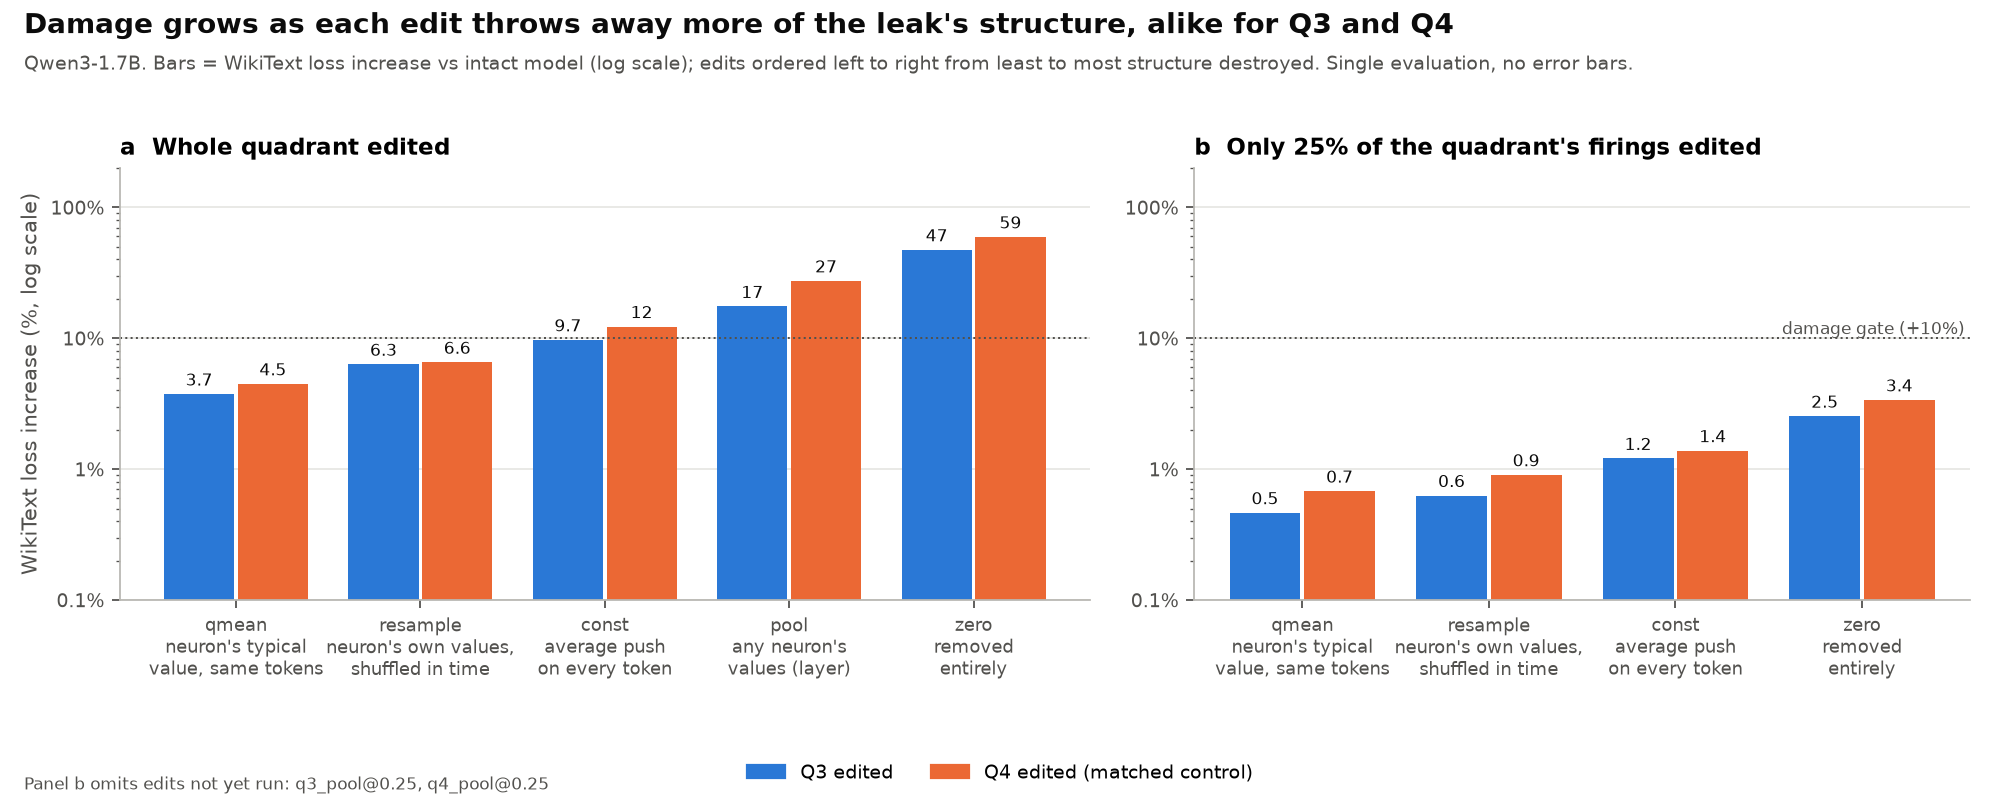
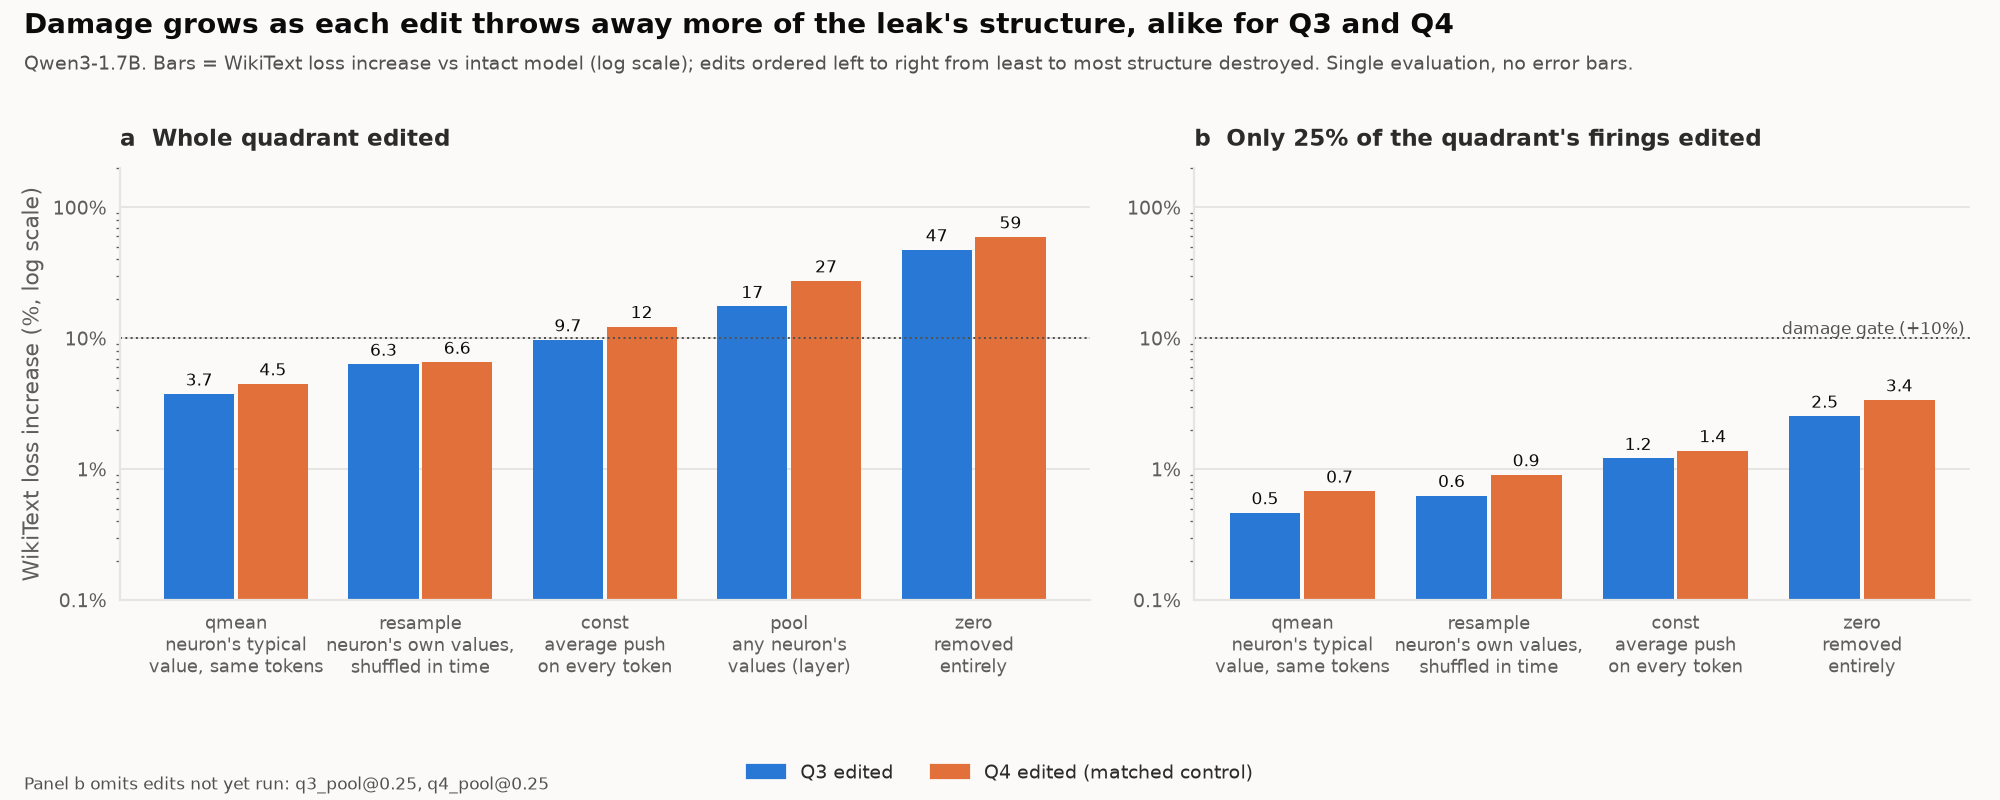
Restyle figures: shared style module, shaded bands, end-of-line labels; simplify survival panel

diff --git a/src/figures/make_figures.py b/src/figures/make_figures.py
@@ -42,12 +42,12 @@ DPI = 160
 
 # Palette (validated categorical slots 1, 2 and 7 of the dataviz reference palette).
 Q3_COL = "#2a78d6"
-Q4_COL = "#eb6834"
+Q4_COL = "#e2703a"
 OTHER_COL = "#6250d6"
 INTACT_COL = "#8a8985"
 INK = "#0b0b0b"
 INK2 = "#52514e"
-GRID = "#e4e3df"
+GRID = "#e6e5e1"
 
 FILL_ORDER = ["qmean", "resample", "const", "pool", "shrink", "grow", "zero", "mean"]
 FILL_DESC = {
@@ -58,31 +58,11 @@ FILL_DESC = {
     "zero": "zero\nremoved\nentirely",
 }
 
-plt.rcParams.update({
-    "font.size": 9.5,
-    "axes.titlesize": 10.5,
-    "axes.titleweight": "bold",
-    "axes.titlelocation": "left",
-    "axes.labelsize": 9.5,
-    "axes.labelcolor": INK2,
-    "axes.edgecolor": "#b9b8b3",
-    "axes.linewidth": 0.8,
-    "axes.spines.top": False,
-    "axes.spines.right": False,
-    "axes.grid": True,
-    "grid.color": GRID,
-    "grid.linewidth": 0.7,
-    "axes.axisbelow": True,
-    "xtick.color": INK2,
-    "ytick.color": INK2,
-    "xtick.labelsize": 8.5,
-    "ytick.labelsize": 8.5,
-    "legend.frameon": False,
-    "legend.fontsize": 8.5,
-    "figure.facecolor": "white",
-    "axes.facecolor": "white",
-    "savefig.facecolor": "white",
-})
+import style  # noqa: E402  (shared look: see style.py)
+
+style.apply()
+plt.rcParams.update({"font.size": 9.5, "axes.titlesize": 10.5, "xtick.labelsize": 8.5,
+                     "ytick.labelsize": 8.5, "legend.fontsize": 8.5, "lines.linewidth": 2.0})
 
 
 # ----------------------------------------------------------------------------- helpers
@@ -215,7 +195,7 @@ def fig1_damage_dose(folder: Path, out_dir: Path):
             if is_rate:
                 se = np.sqrt(ys * (1 - ys) / n)
                 ax.fill_between(xs, ys - se, ys + se, color=col, alpha=0.16, lw=0)
-            ax.plot(xs, ys, color=col, lw=2, marker="o", ms=5.5, mec="white", mew=1.2, label=lab, zorder=3)
+            ax.plot(xs, ys, color=col, lw=2, marker="o", ms=5.5, mec=style.SURFACE, mew=1.2, label=lab, zorder=3)
             ends.append((xs[-1], ys[-1], q.upper(), col))
         # Direct labels at line ends, nudged apart if they collide.
         lo, hi = ax.get_ylim()
@@ -285,7 +265,7 @@ def fig2_putback_ladder(folder: Path, out_dir: Path):
                     continue
                 v = r["loss_increase_pct"]
                 ax.bar(x[i] + off, v, bw, color=col, bottom=0.1 if False else None,
-                       label=None, edgecolor="white", linewidth=0)
+                       label=None, edgecolor=style.SURFACE, linewidth=0)
                 ax.text(x[i] + off, v * 1.08, f"{v:.1f}" if v < 10 else f"{v:.0f}", ha="center", va="bottom",
                         fontsize=7.8, color=INK)
         ax.set_yscale("log")
@@ -359,26 +339,25 @@ def fig3_generation(folder: Path, out_dir: Path):
 
     # (a) survival curves
     ax = fig.add_subplot(gs[0, :])
-    ax.set_title("a  Share of problems still thinking after t tokens")
-    linestyles = ["-", "--", "-.", ":"]
-    fam_count = {}
+    ax.set_title("a  Share of problems still thinking after t tokens (leaks halved, dashed, vs 50% larger, solid)")
+    # Only the clearest contrast is drawn here (leaks halved vs made 50% larger);
+    # panels b-d list every edit.
+    SHOWN = ["none", "q3_shrink@0.5", "q4_shrink@0.5", "q3_grow@0.5", "q4_grow@0.5"]
+    shown = [c for c in SHOWN if c in rows] or rows
 
-    def style(c):
+    def line_style(c):
         if c == "none":
             return dict(color=INTACT_COL, ls="-", lw=2.6)
-        col = quad_colour(c)
-        k = fam_count.setdefault(col, 0)
-        fam_count[col] = k + 1
-        return dict(color=col, ls=linestyles[k % len(linestyles)], lw=1.8)
+        return dict(color=quad_colour(c), ls="--" if "shrink" in c else "-", lw=2.2)
 
-    for c in rows:
+    for c in shown:
         keys = all_keys if c == "none" else paired[c]
         recs = base if c == "none" else variants[c]
         t = np.sort(np.array([max(recs[k]["thinking_tokens"], 1) for k in keys]))
         alive = 1.0 - np.arange(1, len(t) + 1) / len(t)
         xs = np.concatenate([[1], np.repeat(t, 2)])
         ys = np.concatenate([[1.0], np.column_stack([np.r_[1.0, alive[:-1]], alive]).ravel()])
-        ax.plot(xs, ys, label=f"{c} (n={len(keys)})", **style(c))
+        ax.plot(xs, ys, label=f"{c} (n={len(keys)})", **line_style(c))
     ax.set_xscale("log")
     ax.set_xlim(30, 6000)
     ax.set_ylim(-0.02, 1.02)
@@ -387,7 +366,7 @@ def fig3_generation(folder: Path, out_dir: Path):
     ax.set_xlabel("Thinking tokens so far (log scale)")
     ax.set_ylabel("Share still thinking")
     ax.yaxis.set_major_formatter(matplotlib.ticker.PercentFormatter(1.0, decimals=0))
-    ax.legend(loc="lower left", ncol=max(1, math.ceil(len(rows) / 4)), fontsize=8)
+    ax.legend(loc="lower left", ncol=1, fontsize=8.5)
 
     y = np.arange(len(rows))[::-1]
     axb, axc, axd = (fig.add_subplot(gs[1, i]) for i in range(3))
@@ -404,7 +383,7 @@ def fig3_generation(folder: Path, out_dir: Path):
         lo, hi = bootstrap(lambda ix: np.median(ratio[ix]), len(ratio))
         col = quad_colour(c)
         axb.plot([lo, hi], [yi, yi], color=col, lw=2, solid_capstyle="round")
-        axb.plot(med, yi, "o", color=col, ms=7, mec="white", mew=1.2)
+        axb.plot(med, yi, "o", color=col, ms=7, mec=style.SURFACE, mew=1.2)
         axb.annotate(f"{med:.2f}", (hi, yi), xytext=(4, 0), textcoords="offset points", va="center",
                      fontsize=7.5, color=INK2)
     axb.axvline(1, color=INTACT_COL, lw=1.1, ls="--")
@@ -433,7 +412,7 @@ def fig3_generation(folder: Path, out_dir: Path):
             p, lo, hi = wilson(k, len(keys))
             col = quad_colour(c)
             axx.plot([lo, hi], [yi, yi], color=col, lw=2, solid_capstyle="round")
-            axx.plot(p, yi, "o", color=col, ms=7, mec="white", mew=1.2)
+            axx.plot(p, yi, "o", color=col, ms=7, mec=style.SURFACE, mew=1.2)
             if c == "none":
                 axx.axvline(p, color=INTACT_COL, lw=1.1, ls="--")
         axx.set_xlabel(xlabel)
@@ -508,7 +487,7 @@ def fig4_probe(folder: Path, out_dir: Path):
             col = quad_colour(c)
             lo, hi = s[metric + "_ci"]
             ax.errorbar(s["kl"], s[metric], yerr=[[s[metric] - lo], [hi - s[metric]]], fmt="o", color=col,
-                        ms=7, mec="white", mew=1.2, elinewidth=1.6, capsize=0, zorder=3)
+                        ms=7, mec=style.SURFACE, mew=1.2, elinewidth=1.6, capsize=0, zorder=3)
             ax.annotate(c, (s["kl"], s[metric]), xytext=(5, 4), textcoords="offset points", fontsize=7.3,
                         color=INK2)
         ax.axhline(1, color=INTACT_COL, lw=1.1, ls="--")
@@ -537,7 +516,7 @@ def fig4_probe(folder: Path, out_dir: Path):
         s = stats[c]
         lo, hi = s["dlogp_ci"]
         col = quad_colour(c)
-        ax.barh(yi, s["dlogp"], 0.62, color=col, edgecolor="white", linewidth=0)
+        ax.barh(yi, s["dlogp"], 0.62, color=col, edgecolor=style.SURFACE, linewidth=0)
         ax.plot([lo, hi], [yi, yi], color=INK, lw=1.2)
     ax.axvline(0, color=INTACT_COL, lw=1.1)
     ax.set_yticks(y)
@@ -608,7 +587,7 @@ def fig5_probe_conclude(folder: Path, out_dir: Path):
             o = np.argsort(xs)
             xs, ys, los, his = (np.array(v)[o] for v in (xs, ys, los, his))
             ax.plot(xs + off[q], ys, color=col, lw=2, zorder=3)
-            ax.errorbar(xs + off[q], ys, yerr=[ys - los, his - ys], fmt="o", color=col, ms=7, mec="white", mew=1.2,
+            ax.errorbar(xs + off[q], ys, yerr=[ys - los, his - ys], fmt="o", color=col, ms=7, mec=style.SURFACE, mew=1.2,
                         elinewidth=1.6, capsize=0, zorder=4)
             ends.append((xs[-1] + off[q], ys[-1], q.upper(), col))
             for s, x in GAIN_STEPS:
@@ -618,7 +597,7 @@ def fig5_probe_conclude(folder: Path, out_dir: Path):
                 m, (lo, hi) = r[metric]["mean"], r[metric]["ci"]
                 xx = x + 3 * off[q]
                 ax.plot([xx, xx], [lo, hi], color=col, lw=1.0, alpha=0.6, zorder=2)
-                ax.plot(xx, m, "o", mfc="white", mec=col, mew=1.6, ms=6.5, zorder=5)
+                ax.plot(xx, m, "o", mfc=style.SURFACE, mec=col, mew=1.6, ms=6.5, zorder=5)
         lo, hi = ax.get_ylim()
         gap = 0.07 * (hi - lo)
         ends.sort(key=lambda e: e[1])
@@ -636,9 +615,9 @@ def fig5_probe_conclude(folder: Path, out_dir: Path):
         _ratio_axis(ax)
         ax.text(0.41, 0, "intact", fontsize=7.8, color=INTACT_COL, va="bottom")
     from matplotlib.lines import Line2D
-    handles = [Line2D([], [], color=Q3_COL, lw=2, marker="o", ms=7, mec="white", label="Q3 leaks scaled"),
-               Line2D([], [], color=Q4_COL, lw=2, marker="o", ms=7, mec="white", label="Q4 leaks scaled (matched control)"),
-               Line2D([], [], ls="", marker="o", ms=6.5, mfc="white", mec=INK2, mew=1.6,
+    handles = [Line2D([], [], color=Q3_COL, lw=2, marker="o", ms=7, mec=style.SURFACE, label="Q3 leaks scaled"),
+               Line2D([], [], color=Q4_COL, lw=2, marker="o", ms=7, mec=style.SURFACE, label="Q4 leaks scaled (matched control)"),
+               Line2D([], [], ls="", marker="o", ms=6.5, mfc=style.SURFACE, mec=INK2, mew=1.6,
                       label="independent traces (seed 1)"),
                Line2D([], [], color=INTACT_COL, ls="--", lw=1.1, label="intact model")]
     fig.legend(handles=handles, loc="lower center", ncol=4, bbox_to_anchor=(0.5, 0.0))
@@ -709,7 +688,7 @@ def fig6_full_ablation(folder: Path, out_dir: Path):
         for i in np.flatnonzero(mid):
             pts.append((t[i], yi + rng.uniform(-0.3, 0.3), ok[i]))
         for x, yy, c in pts:
-            ax.plot(x, yy, "o", ms=5.2, mec=col, mew=1.1, mfc=col if c else "white", zorder=3)
+            ax.plot(x, yy, "o", ms=5.2, mec=col, mew=1.1, mfc=col if c else style.SURFACE, zorder=3)
         for mask, x, ha in ((zero, -30 - dx * math.ceil(zero.sum() / per_col) + dx / 2 - 20, "right"),
                             (cap, CAP + 30 + dx * math.ceil(cap.sum() / per_col) - dx / 2 + 20, "left")):
             if mask.sum():

diff --git a/src/figures/fig_gain_dose.py b/src/figures/fig_gain_dose.py
@@ -2,7 +2,7 @@
 
 Every Q3 (or Q4) firing is multiplied by a gain: shrink@0.5 = x0.5, none = x1,
 grow@0.25 = x1.25, and so on. Left: median per-problem thinking length relative
-to the intact model (bootstrap 95% CI). Right: GSM8K accuracy (Wilson 95% CI).
+to the intact model (bootstrap 95% band). Right: GSM8K accuracy (Wilson 95% band).
 
 Usage: python src/figures/fig_gain_dose.py [results/q3__Qwen__Qwen3-1.7B] [seed]
 Writes figures/fig7_gain_dose_response.png and gain_dose_summary__seed<k>.json.
@@ -14,25 +14,32 @@ import matplotlib
 matplotlib.use("Agg")
 import matplotlib.pyplot as plt
 
+sys.path.insert(0, str(Path(__file__).resolve().parent))
+import style  # noqa: E402
+
+style.apply()
 folder = Path(sys.argv[1] if len(sys.argv) > 1 else "results/q3__Qwen__Qwen3-1.7B")
 seed = int(sys.argv[2]) if len(sys.argv) > 2 else 1
 GAINS = {0.5: "shrink@0.5", 1.25: "grow@0.25", 1.5: "grow@0.5", 1.75: "grow@0.75"}
 rng = np.random.default_rng(0)
 
+
 def load(name):
     p = folder / f"{name}__seed{seed}.jsonl"
     return {r["idx"]: r for r in map(json.loads, p.open())} if p.exists() else None
+
 
 def wilson(k, n, z=1.96):
     p = k / n; d = 1 + z * z / n; c = (p + z * z / (2 * n)) / d
     h = z * np.sqrt(p * (1 - p) / n + z * z / (4 * n * n)) / d
     return c - h, c + h
 
+
 base = load("none")
 ids = sorted(base)
 summary = {}
-fig, (a1, a2) = plt.subplots(1, 2, figsize=(11, 4.2))
-for quad, colour in (("q3", "#c0392b"), ("q4", "#2c6fbb")):
+fig, (a1, a2) = plt.subplots(1, 2, figsize=(12.5, 4.9))
+for quad, colour, dy in (("q3", style.Q3_COL, 0), ("q4", style.Q4_COL, 0)):
     xs, ratio, rlo, rhi, acc, alo, ahi = [1.0], [1.0], [1.0], [1.0], [], [], []
     k = sum(base[i]["correct"] for i in ids); lo, hi = wilson(k, len(ids))
     acc.append(k / len(ids)); alo.append(lo); ahi.append(hi)
@@ -48,17 +55,24 @@ for quad, colour in (("q3", "#c0392b"), ("q4", "#2c6fbb")):
         summary[f"{quad}_{fill}"] = {"gain": g, "length_ratio": ratio[-1], "ci": [rlo[-1], rhi[-1]],
                                      "accuracy": acc[-1], "cap_hits": float(np.mean([run[i]["total_tokens"] >= 4096 for i in ids]))}
     o = np.argsort(xs); xs, ratio, rlo, rhi, acc, alo, ahi = (np.array(v)[o] for v in (xs, ratio, rlo, rhi, acc, alo, ahi))
-    a1.errorbar(xs, ratio, [ratio - rlo, rhi - ratio], marker="o", color=colour, capsize=3, label=f"{quad.upper()} leaks")
-    a2.errorbar(xs, acc, [acc - alo, ahi - acc], marker="o", color=colour, capsize=3, label=f"{quad.upper()} leaks")
-a1.axhline(1, color="grey", lw=0.8, ls="--"); a1.set_yscale("log"); a1.set_yticks([0.4, 0.5, 0.7, 1, 1.5, 2])
+    name = f"{quad.upper()} leaks"
+    style.line_with_band(a1, xs, ratio, rlo, rhi, colour, name)
+    style.line_with_band(a2, xs, acc, alo, ahi, colour, name, dy=-9 if quad == "q3" else 9)
+
+a1.set_yscale("log"); a1.set_yticks([0.4, 0.5, 0.7, 1, 1.5, 2])
 a1.set_yticklabels(["0.4", "0.5", "0.7", "1", "1.5", "2"]); a1.minorticks_off()
-a1.set_xlabel("leak size multiplier (1 = intact)"); a1.set_ylabel("thinking length vs intact (median ratio)")
-a1.set_title("Bigger Q3 leaks -> shorter reasoning"); a1.legend()
-a2.set_xlabel("leak size multiplier (1 = intact)"); a2.set_ylabel("GSM8K accuracy"); a2.set_ylim(0.4, 1)
-a2.set_title("Accuracy holds only near the intact size"); a2.legend()
-fig.suptitle(f"Qwen3-1.7B, 200 GSM8K problems, seed {seed}. x1.25 and x1.5 leave accuracy intact.", fontsize=10)
-fig.tight_layout()
+style.reference_line(a1, 1, "intact", 1.83)
+a1.set_ylabel("thinking length vs intact (median ratio)")
+a1.set_title("Bigger Q3 leaks, shorter reasoning")
+a2.set_ylabel("GSM8K accuracy"); a2.set_ylim(0.4, 1.0)
+a2.set_title("Accuracy holds from x1 to x1.5")
+for ax in (a1, a2):
+    ax.set_xlabel("leak size multiplier (1 = intact)")
+    ax.set_xticks([0.5, 0.75, 1, 1.25, 1.5, 1.75]); ax.set_xlim(0.42, 1.83)
+fig.suptitle(f"Qwen3-1.7B, 200 GSM8K problems, seed {seed}. Shaded: 95% interval.",
+             fontsize=9.5, color=style.INK2, x=0.012, ha="left", y=0.985)
+fig.tight_layout(rect=(0, 0, 0.985, 0.96), w_pad=7)
 out = folder / "figures" / "fig7_gain_dose_response.png"
-fig.savefig(out, dpi=150)
+fig.savefig(out, dpi=160)
 (folder / f"gain_dose_summary__seed{seed}.json").write_text(json.dumps(summary, indent=1))
-print("wrote", out); print(json.dumps(summary, indent=1))
+print("wrote", out)

diff --git a/src/figures/style.py b/src/figures/style.py
@@ -1,0 +1,72 @@
+"""Shared look for every figure: soft off-white panel, light grid on both axes,
+no box, thick lines with dots, shaded 95% bands and labels at the line ends.
+
+Usage:  import style; style.apply()
+        style.line_with_band(ax, x, y, lo, hi, colour, "label")
+"""
+import matplotlib.pyplot as plt
+
+SURFACE = "#fbfaf8"
+GRID = "#e6e5e1"
+INK = "#2b2b29"
+INK2 = "#5f5e5a"
+MUTED = "#8a8985"
+Q3_COL = "#2a78d6"   # blue
+Q4_COL = "#e2703a"   # orange
+THIRD_COL = "#4fae84"  # green
+INTACT_COL = "#8a8985"
+
+
+def apply():
+    plt.rcParams.update({
+        "font.family": "DejaVu Sans",
+        "font.size": 10,
+        "text.color": INK,
+        "axes.titlesize": 11,
+        "axes.titleweight": "bold",
+        "axes.titlelocation": "left",
+        "axes.titlepad": 10,
+        "axes.labelsize": 10,
+        "axes.labelcolor": INK2,
+        "axes.edgecolor": GRID,
+        "axes.linewidth": 1.0,
+        "axes.spines.top": False,
+        "axes.spines.right": False,
+        "axes.grid": True,
+        "axes.grid.axis": "both",
+        "grid.color": GRID,
+        "grid.linewidth": 0.9,
+        "axes.axisbelow": True,
+        "xtick.color": INK2,
+        "ytick.color": INK2,
+        "xtick.labelsize": 9,
+        "ytick.labelsize": 9,
+        "xtick.major.size": 0,
+        "ytick.major.size": 0,
+        "xtick.major.pad": 6,
+        "ytick.major.pad": 6,
+        "lines.linewidth": 2.4,
+        "lines.markersize": 5.5,
+        "lines.solid_capstyle": "round",
+        "legend.frameon": False,
+        "legend.fontsize": 9,
+        "figure.facecolor": SURFACE,
+        "axes.facecolor": SURFACE,
+        "savefig.facecolor": SURFACE,
+    })
+
+
+def line_with_band(ax, x, y, lo, hi, colour, label=None, end_label=True, dy=0.0):
+    """Thick line with dots, a shaded band for the interval, and the series
+    name written at the right-hand end of the line instead of in a legend box."""
+    ax.fill_between(x, lo, hi, color=colour, alpha=0.14, linewidth=0)
+    ax.plot(x, y, "-o", color=colour, label=label, zorder=3)
+    if label and end_label:
+        ax.annotate(label, (x[-1], y[-1]), xytext=(12, dy), textcoords="offset points",
+                    color=colour, va="center", ha="left", fontsize=10.5, annotation_clip=False)
+
+
+def reference_line(ax, y, label, x_end):
+    ax.axhline(y, color=MUTED, lw=1.1, ls=":", zorder=1)
+    ax.annotate(label, (x_end, y), xytext=(12, 0), textcoords="offset points",
+                color=MUTED, va="center", ha="left", fontsize=10, annotation_clip=False)
